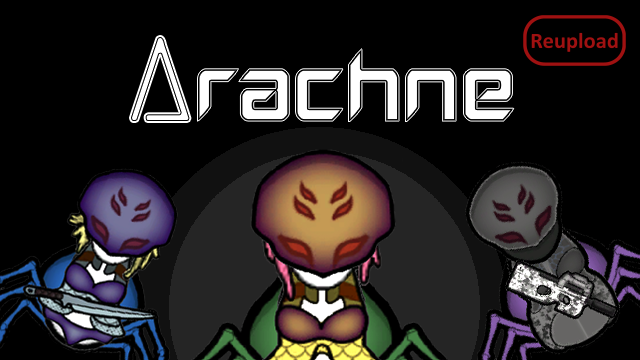
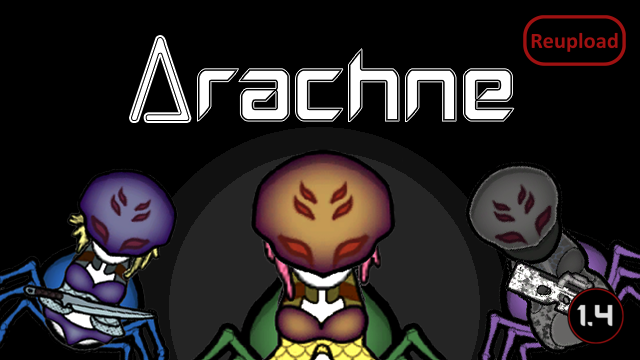
Last update, added end-of-life message

Changed region(s): [[0.875, 0.7944, 1.0, 0.9778]]

diff --git a/README.md b/README.md
@@ -5,12 +5,12 @@
 Update of moronics mod
 https://steamcommunity.com/sharedfiles/filedetails/?id=1589454687
 
-- As previous versions the mod needs https://steamcommunity.com/sharedfiles/filedetails/?id=1660622094][O21] Toolbox for regen to work, can be run without the toolbox if you dont want regen
+- [strike]As previous versions the mod needs https://steamcommunity.com/sharedfiles/filedetails/?id=1660622094]Tabula Rasa for regen to work, can be run without the toolbox if you dont want regen[/strike] As Tabula Rasa have removed its support for HAR races, Zaljerem have made a https://steamcommunity.com/sharedfiles/filedetails/?id=3145943825]patch that uses the Community Framework instead.
 - Added Chinese translation, thanks Dylan Meteor
 
 For a more vanilla look, check out https://steamcommunity.com/sharedfiles/filedetails/?id=2807645373]TasteOfVanilla-ish Arachne Race by IcyCheeseCake
 
-![Image](https://i.imgur.com/pufA0kM.png)
+![Image](https://i.imgur.com/KFjAmff.png)
 
 	
 ![Image](https://i.imgur.com/Z4GOv8H.png)
@@ -115,10 +115,13 @@ https://github.com/syth3sis/Arachne-Race-1.0
 
 -  See if the the error persists if you just have this mod and its requirements active.
 -  If not, try adding your other mods until it happens again.
--  Post your error-log using https://steamcommunity.com/workshop/filedetails/?id=818773962]HugsLib and command Ctrl+F12
+-  Post your error-log using https://steamcommunity.com/workshop/filedetails/?id=818773962]HugsLib or the standalone https://steamcommunity.com/sharedfiles/filedetails/?id=2873415404]Uploader and command Ctrl+F12
 -  For best support, please use the Discord-channel for error-reporting.
 -  Do not report errors by making a discussion-thread, I get no notification of that.
 -  If you have the solution for a problem, please post it to the GitHub repository.
+-  Use https://github.com/RimSort/RimSort/releases/latest]RimSort to sort your mods
 
 
-https://steamcommunity.com/sharedfiles/filedetails/changelog/2571931604]Last updated 2023-04-01
+
+https://steamcommunity.com/sharedfiles/filedetails/changelog/2571931604]![Image](https://img.shields.io/github/v/release/emipa606/ArachneRace?label=latest%20version&style=plastic&color=9f1111&labelColor=black)
+
